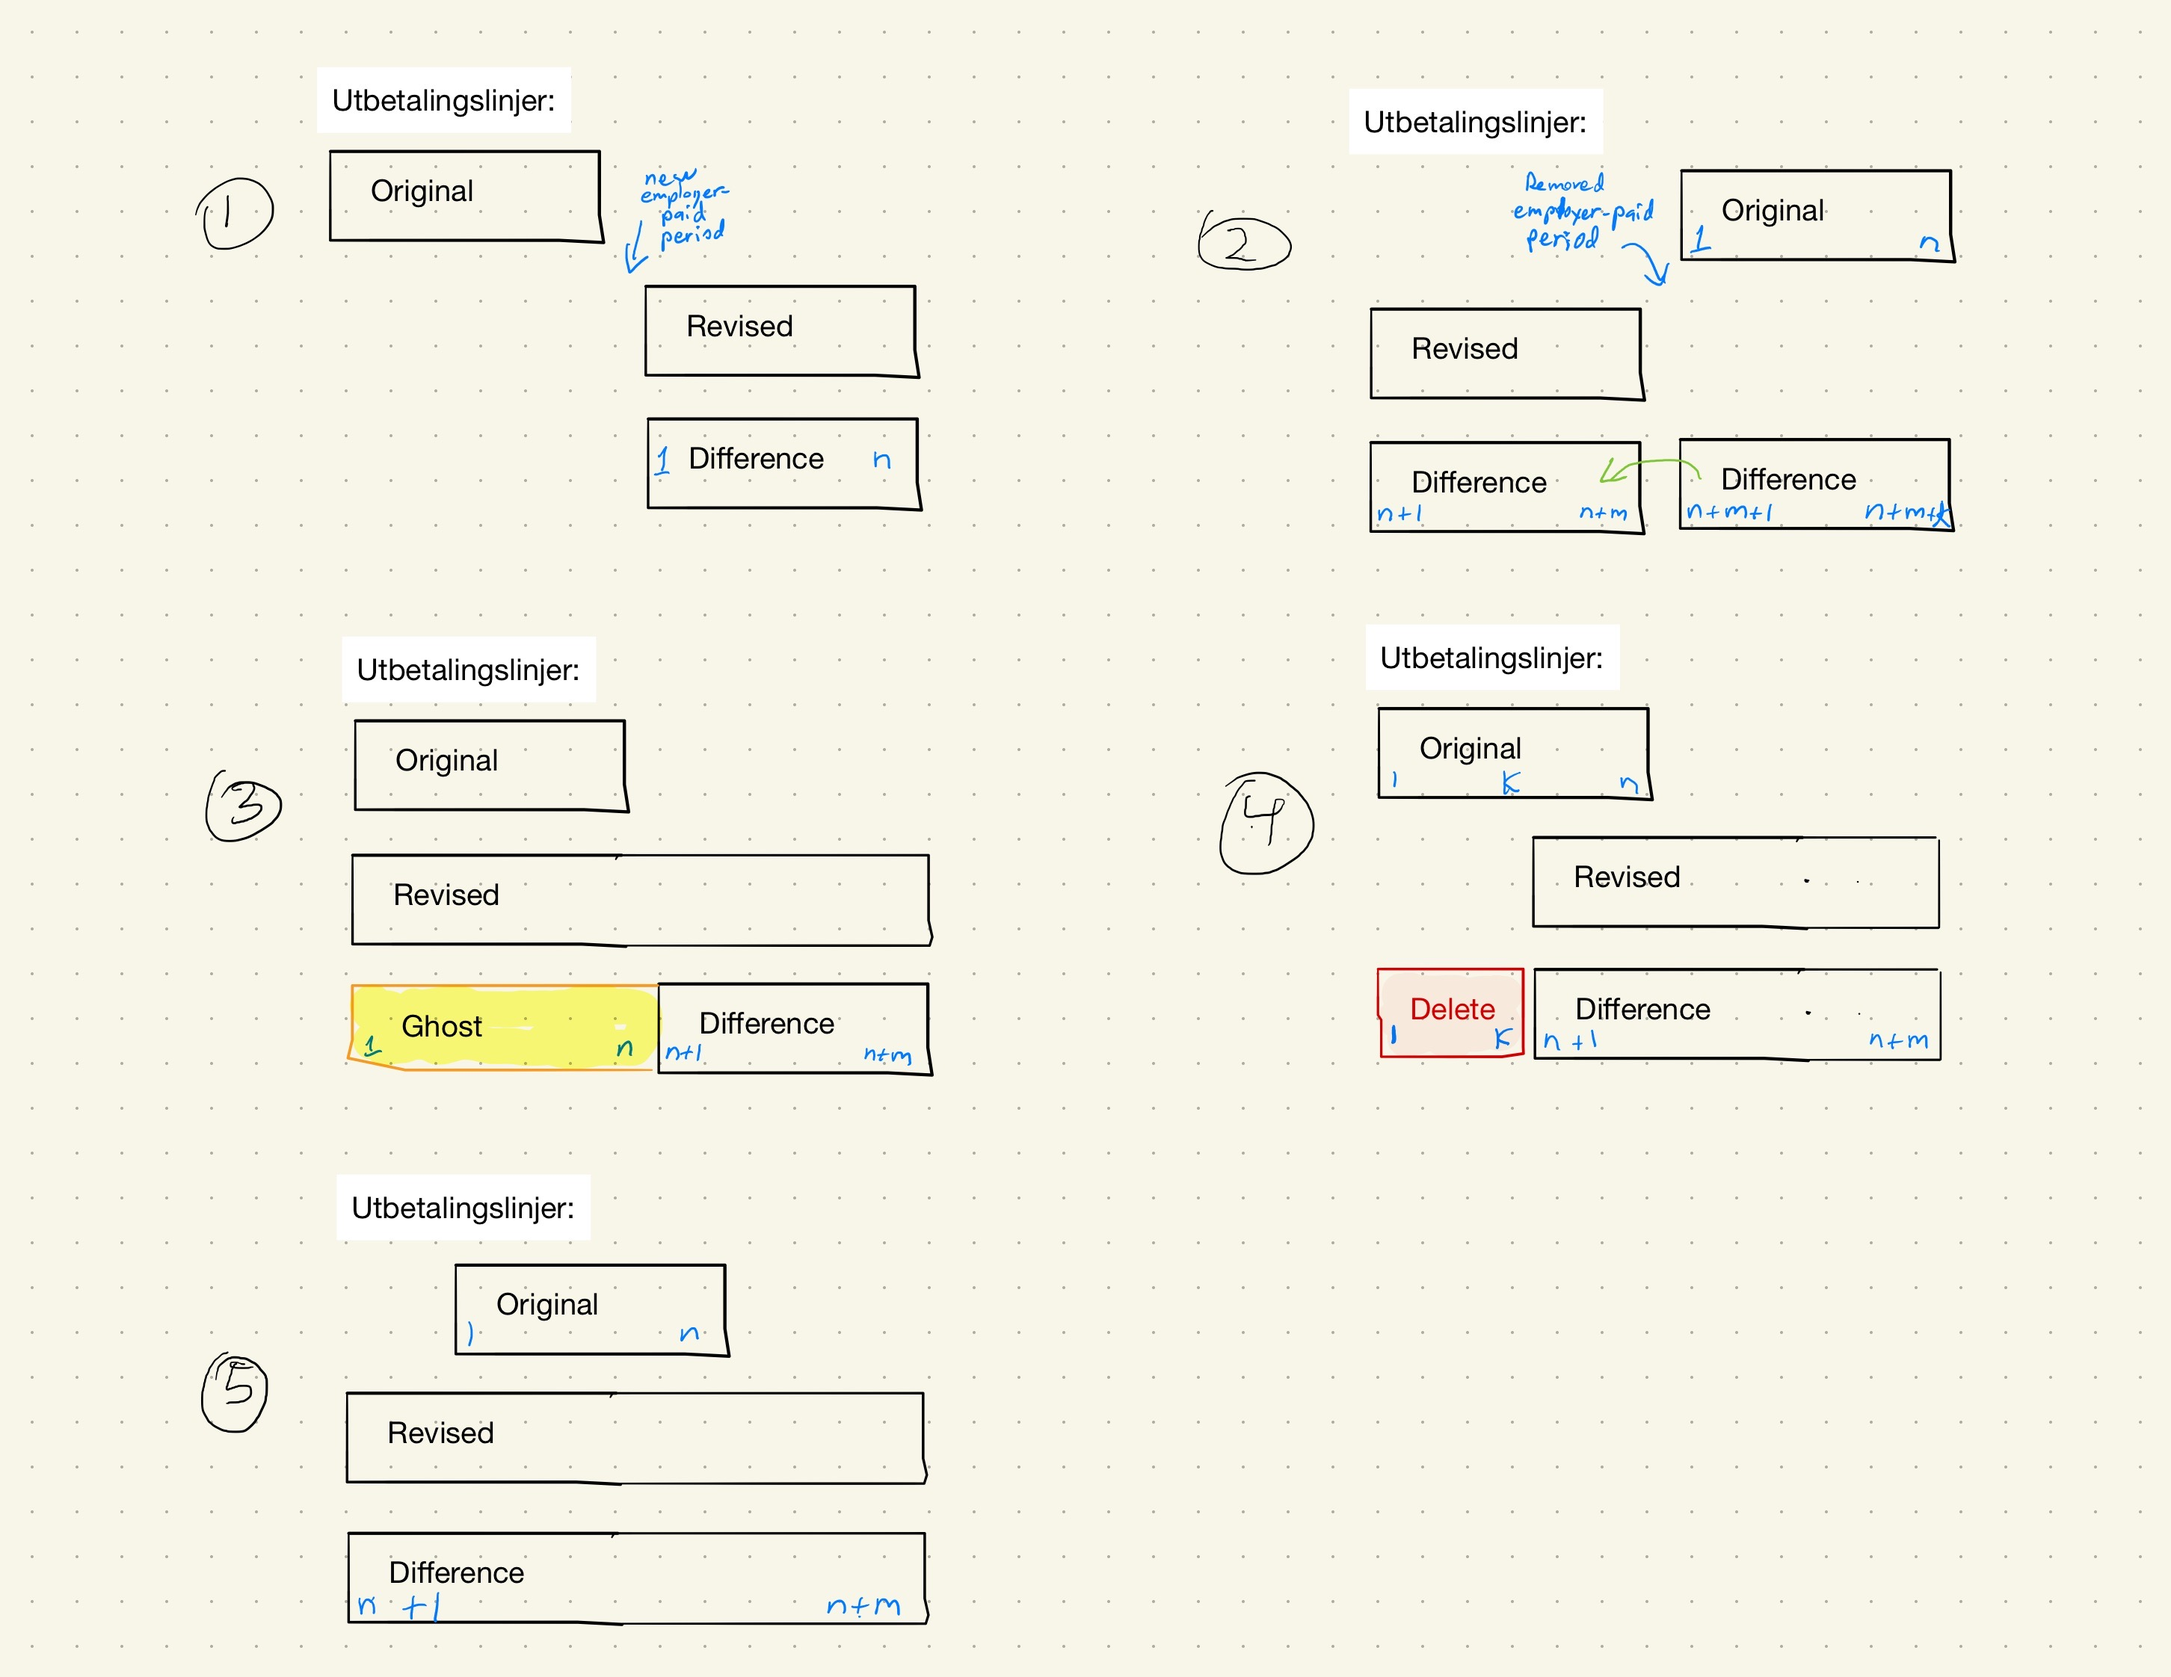
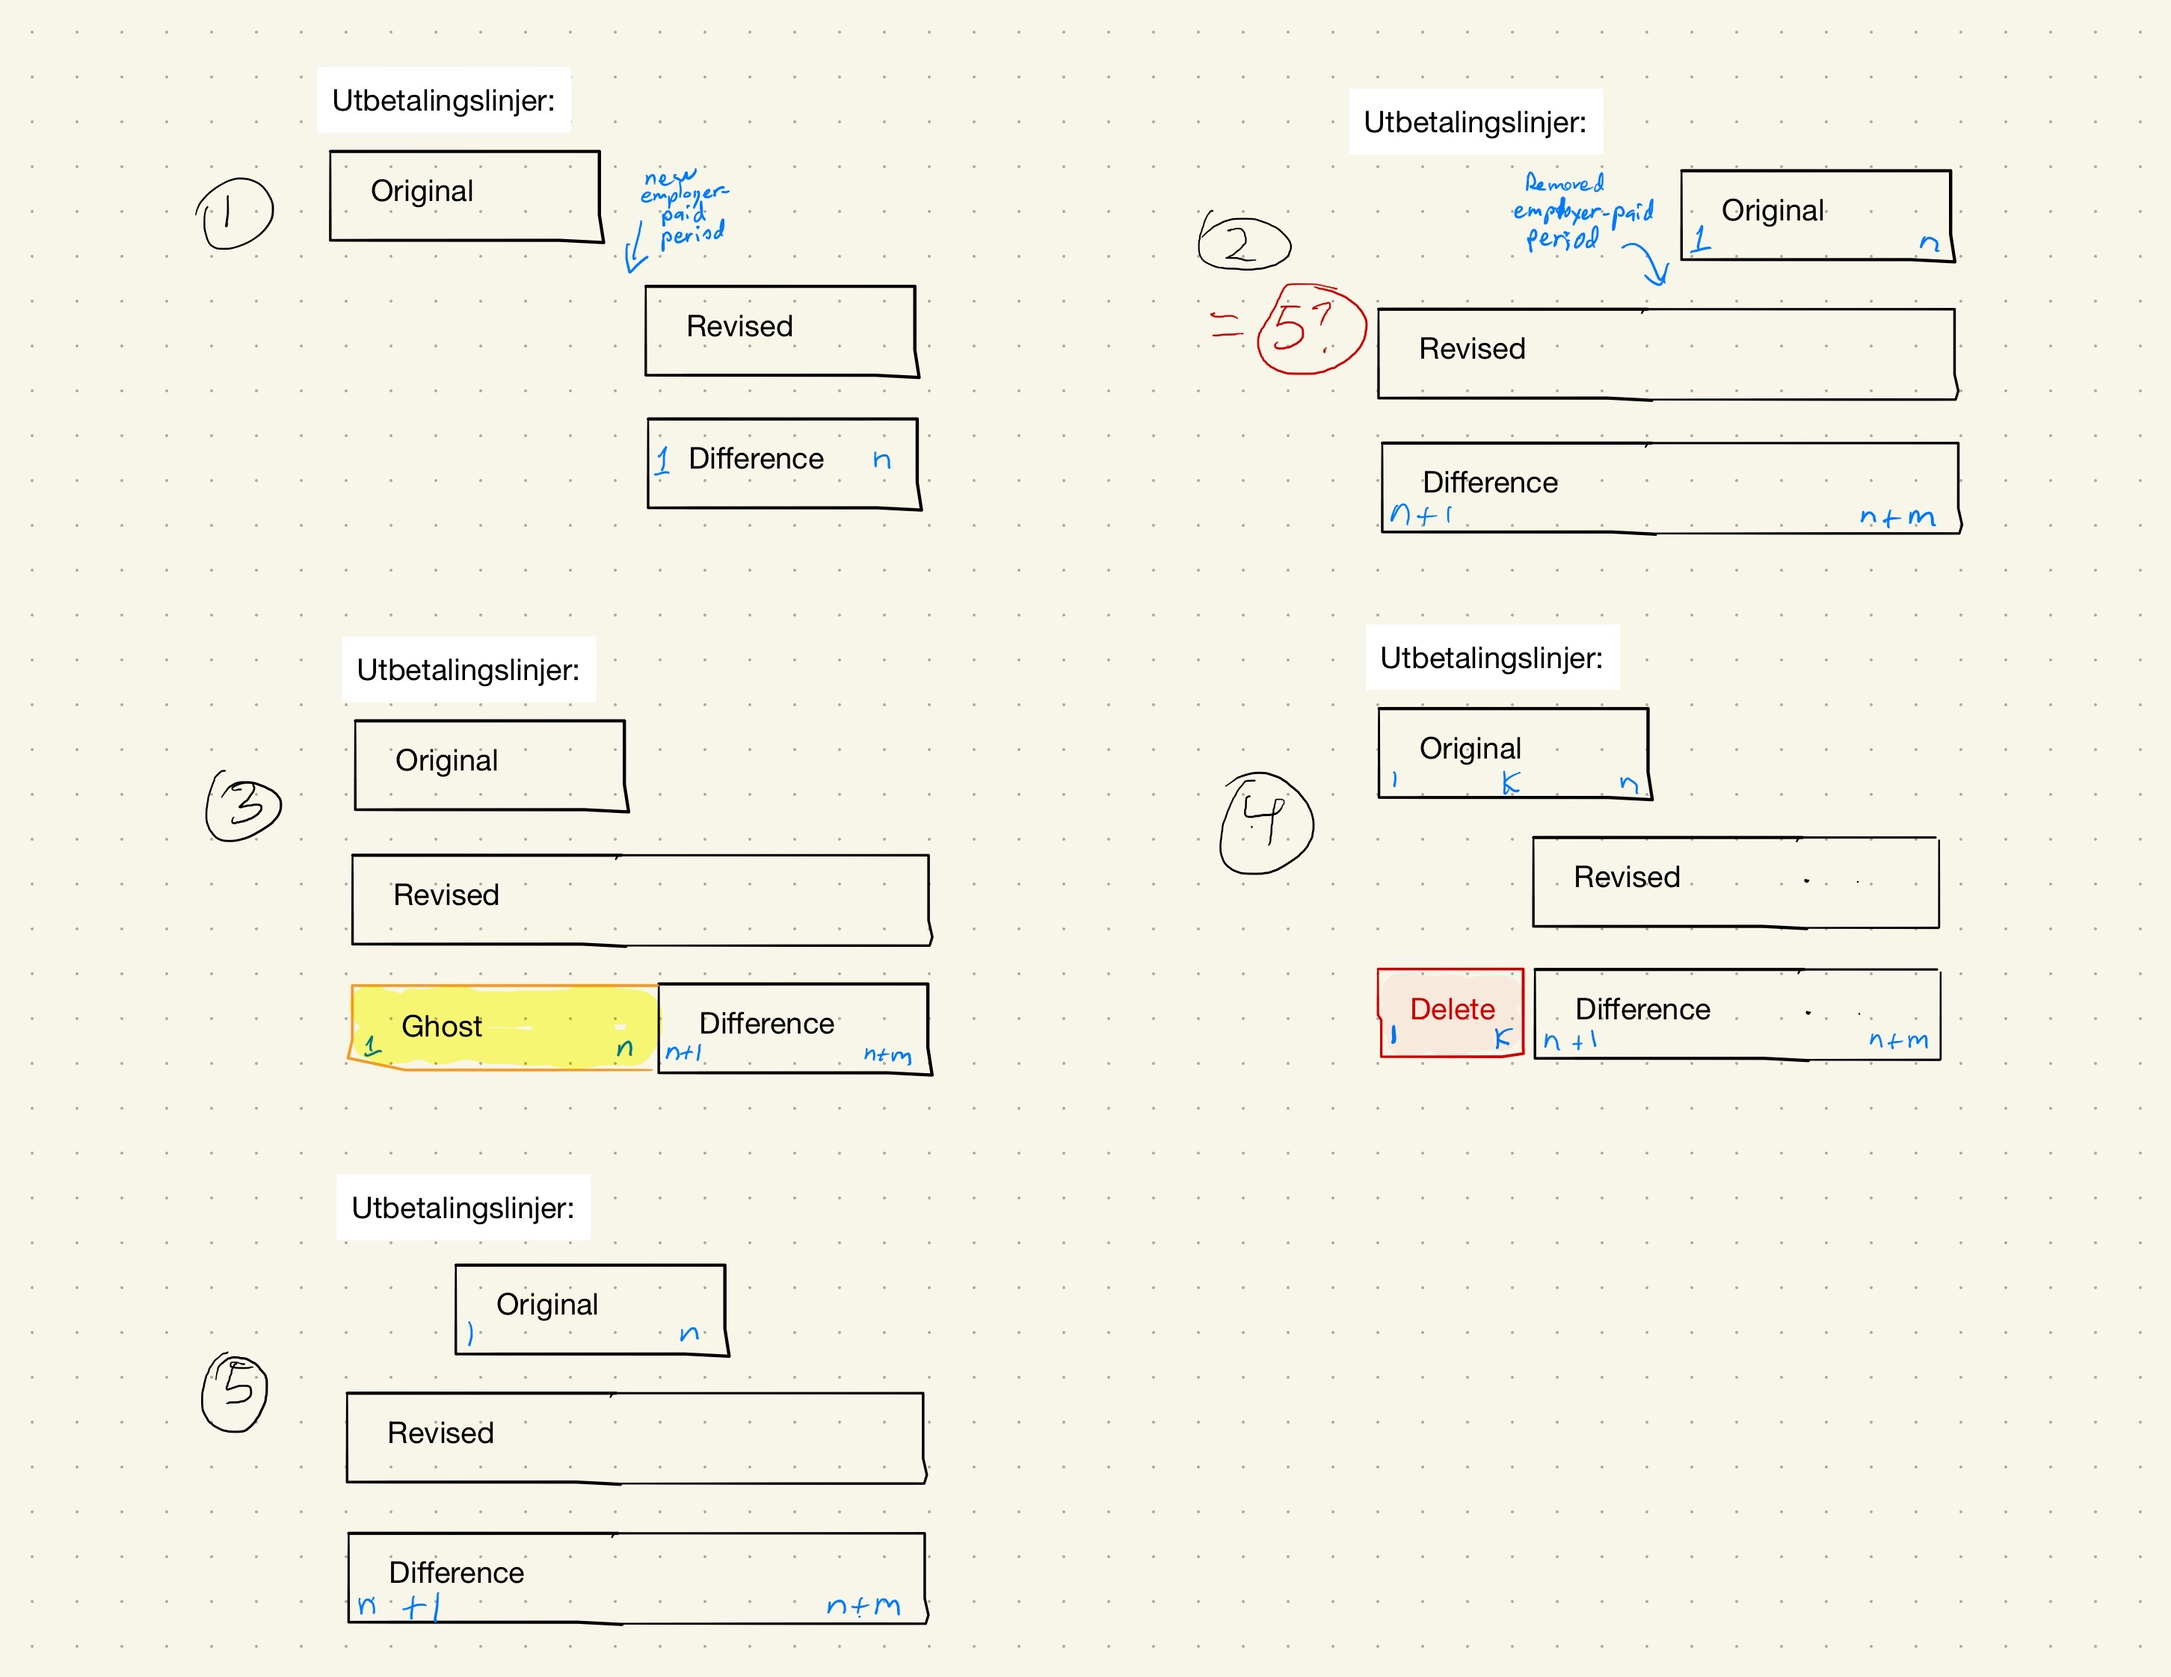
Revised design. Started implementation of one of the Utbetalingslinjer difference possibilities.

diff --git a/sykepenger-model/src/test/kotlin/no/nav/helse/utbetalingslinjer/UtbetalingslinjeForskjellTest.kt b/sykepenger-model/src/test/kotlin/no/nav/helse/utbetalingslinjer/UtbetalingslinjeForskjellTest.kt
@@ -1,5 +1,6 @@
 package no.nav.helse.utbetalingslinjer
 
+import no.nav.helse.testhelpers.februar
 import no.nav.helse.testhelpers.januar
 import no.nav.helse.utbetalingslinjer.Fagområde.SPREF
 import org.junit.jupiter.api.Assertions.assertEquals
@@ -13,10 +14,10 @@ internal class UtbetalingslinjeForskjellTest {
         private const val ORGNUMMER = "987654321"
     }
 
-    @Test internal fun `ingen forskjell`() {
+    @Test internal fun `helt separate utbetalingslinjer`() {
         val original = linjer(1.januar to 5.januar grad 100 dagsats 1200)
-        val recalculated = 1.januar to 5.januar grad 100 dagsats 1200
-        val expected = Utbetalingslinjer(ORGNUMMER, SPREF)
+        val recalculated = linjer(5.februar to 9.februar grad 100 dagsats 1200)
+        val expected = linjer(5.februar to 9.februar grad 100 dagsats 1200)
         assertUtbetalinger(expected, recalculated forskjell original)
     }
 

diff --git a/sykepenger-model/src/main/kotlin/no/nav/helse/utbetalingslinjer/Utbetalingslinje.kt b/sykepenger-model/src/main/kotlin/no/nav/helse/utbetalingslinjer/Utbetalingslinje.kt
@@ -35,8 +35,15 @@ internal class Utbetalingslinjer private constructor(
 
     internal fun referanse() = utbetalingsreferanse
 
-    infix fun forskjell(other: Utbetalingslinjer): Utbetalingslinjer {
-        return Utbetalingslinjer(mottaker, fagområde)
+    private val førstedato get() = linjer.first().fom
+
+    private val sistedato get() = linjer.last().tom
+
+    infix fun forskjell(tidligere: Utbetalingslinjer): Utbetalingslinjer {
+        return when {
+            this.førstedato > tidligere.sistedato -> this
+            else -> throw IllegalArgumentException("uventet utbetalingslinje forhold")
+        }
     }
 }
 
